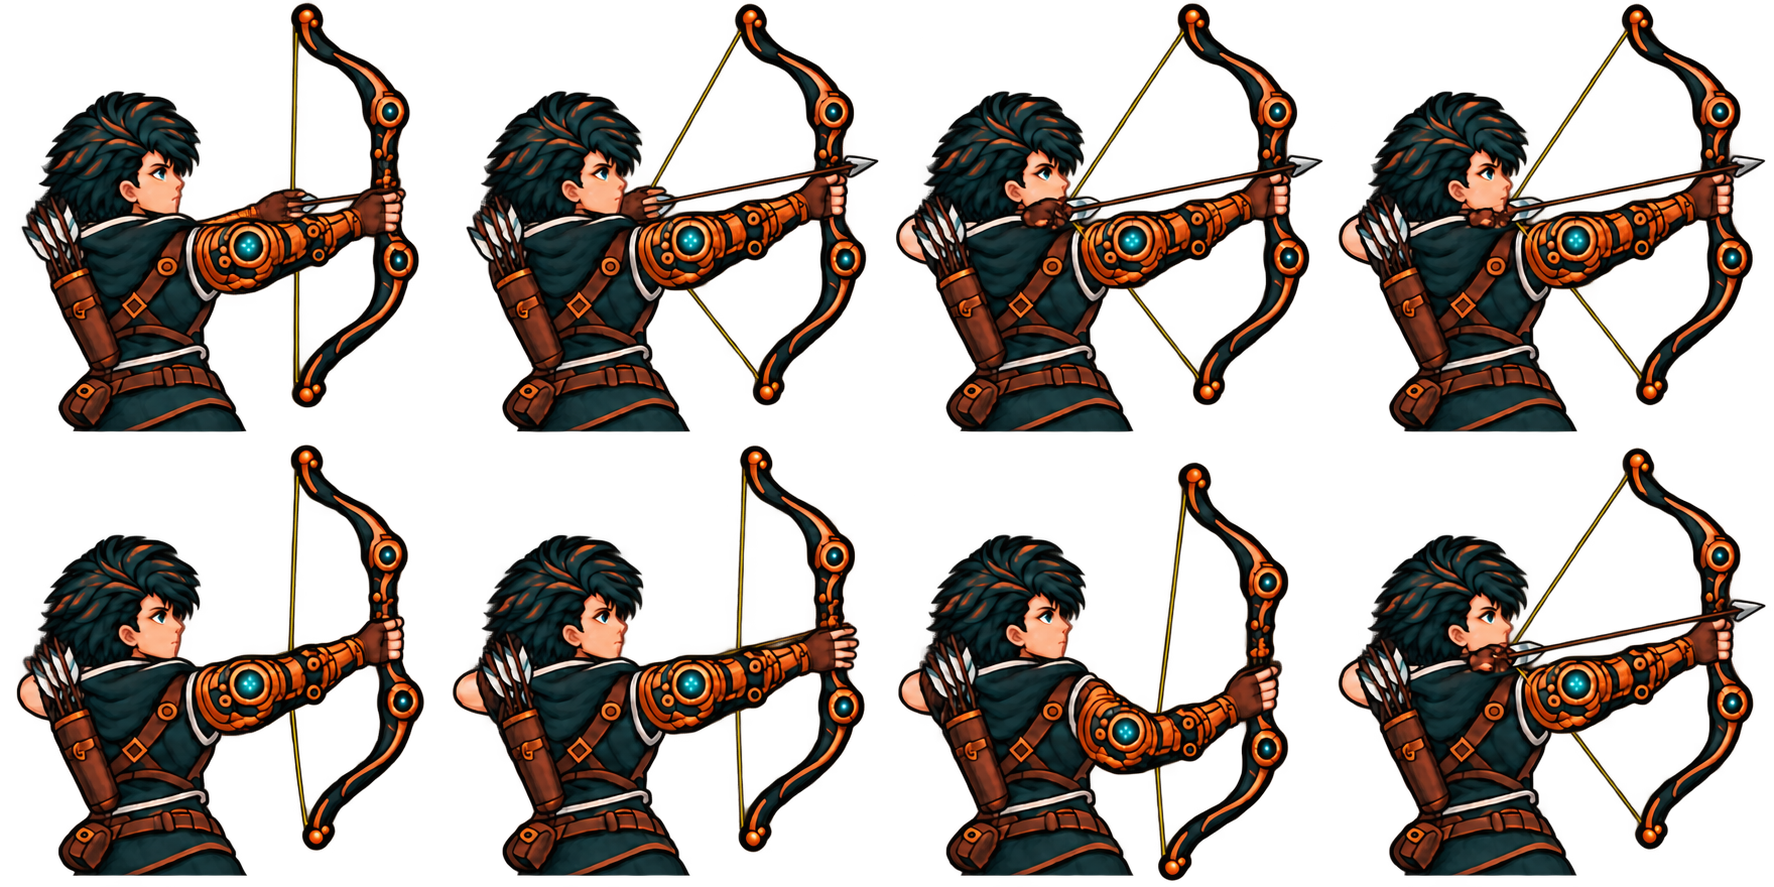
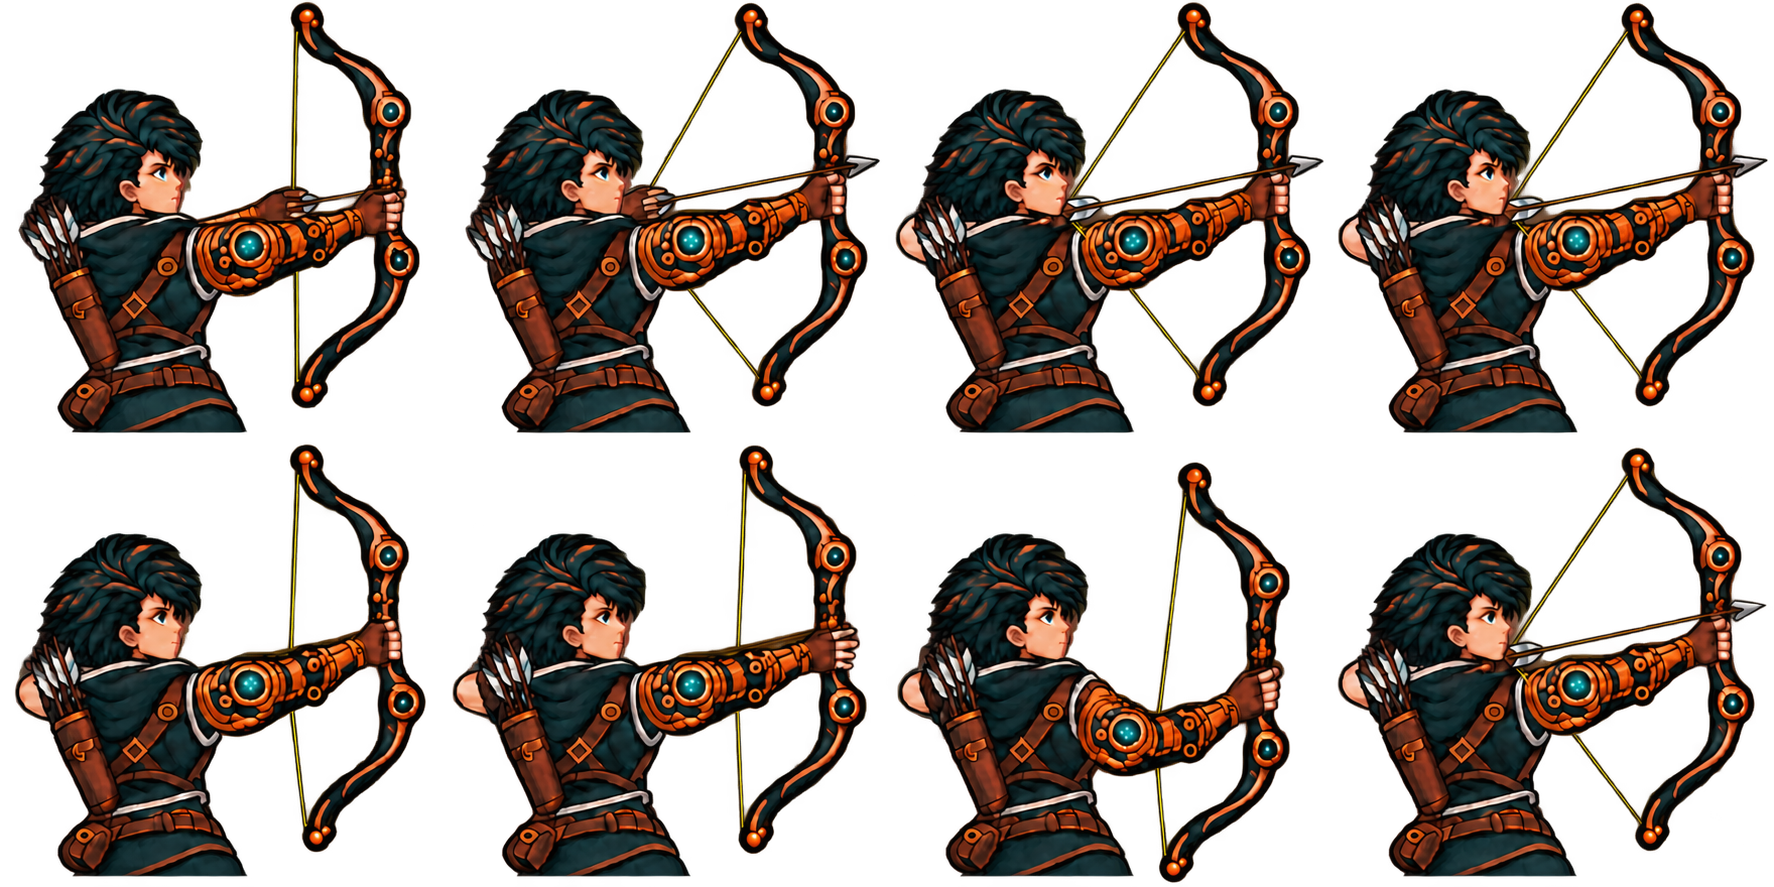
Correct Maera's drawing hand and bow grip

diff --git a/assets/art/maera/README.md b/assets/art/maera/README.md
@@ -13,17 +13,30 @@ retained in the source sheet but is not used by the current animation.
 The defining constraint is a **left-handed archer shooting toward screen
 right, mostly seen from behind**. The copper right arm holds the bow in the
 foreground. Her left drawing arm stays on the far side, naturally occluded by
-her torso/head, with the elbow visible beyond the silhouette. Keep the right
-hand's thumb anatomically correct at the grip. At every pre-release pose, the
-drawing fingers, bowstring vertex, and arrow nock must meet.
+her torso/head, with the elbow visible beyond the silhouette. The right thumb
+belongs behind the bow/riser, hidden on the far side of the grip from this rear
+camera. The visible side shows the glove back and four curled fingers. At every
+pre-release pose, the drawing fingers, bowstring vertex, and arrow nock must meet.
 
 The atlas is the first animation pass, not a finished hand-authored pixel-art
 set. Review anatomy, frame alignment, and silhouette together when refining it.
 Named animations, timing, scale, and bow socket are editable in
 `features/range/maera_archer.tscn`.
 
-## Final edit prompt
+## Latest correction
 
-The final built-in edit used the preceding rear-view correction as its input:
+The full-draw, focused-hold, and alternate-draw poses were corrected to remove
+the oversized glove from the visible neck. The far-side drawing hand is now
+occluded by the head/jaw, with only a small visible fingertip edge at the anchor.
+The exact built-in imagegen prompt is in `neck_correction_prompt.txt`.
+
+All eight right bow-hand grips were then corrected to conceal the thumb behind
+the bow/riser. Enlarged views of every grip were checked in Godot, including
+release and recovery. The exact built-in imagegen edit prompt is in
+`grip_correction_prompt.txt`.
+
+## Earlier edit prompt
+
+The preceding edit used the rear-view correction as its input:
 
 > Single targeted correction on this rear-three-quarter LEFT-HANDED archer animation atlas. Keep the established far-side LEFT drawing arm occluded behind the torso, near-side armored RIGHT bow arm, anatomical right bow hand grip with thumb toward target, camera, all eight aligned cells, transparent background. Preserve cells 3,4,5,6,7,8. ONLY FIX CELLS 1 and 2 in the top row so LEFT HAND, ARROW NOCK and GOLD STRING ALL MEET physically. At present top-left string is straight by the bow but her drawing hand/arrow nock incorrectly remain near her face. TOP-LEFT REST: left drawing hand must be moved FORWARD to touch the nearly straight gold bowstring at its middle (approximately local x300,y205 in that 444px cell), a long distance in front of her face, but still behind the foreground copper bow arm. Arrow nock starts exactly at that hand/string point, its shaft extends RIGHT toward the existing arrow point beyond bow. Shorten visible shaft at rear accordingly. The far left forearm extends from far shoulder toward this hand, mostly occluded by torso and copper arm; do not paint a near-side sleeve. TOP SECOND HALF-DRAW: hand AND arrow nock AND vertex of string V at local x255,y205 in its cell, halfway from the straight-string point toward face; string bends to that point. Fully drawn cells 3/4 already have string/hand at cheek and should stay as-is. No floating hands separated from string, no arrow butt behind a string it is supposed to be nocked onto, no switching which hand holds bow. EXACT 4x2 regular grid, transparent alpha, no text. Keep every other detail unchanged.

diff --git a/docs/shot_animation.md b/docs/shot_animation.md
@@ -31,8 +31,9 @@ The copper right arm holds the bow in the foreground. The left drawing arm is
 on the far side of her body and is occluded by the torso and head where
 appropriate. Its elbow can appear beyond the silhouette. Keep that depth order
 through the whole sequence; do not put the left sleeve across her visible back.
-The right hand must remain an anatomical right hand, with the thumb correctly
-placed at the bow grip and pointing toward the target. The drawing hand,
+The right hand must remain an anatomical right hand. Its thumb wraps on the
+far side of the grip, behind the bow/riser and hidden from this rear camera;
+do not draw a thumb across the camera-facing side of the fist. The drawing hand,
 bowstring vertex, and arrow nock meet in every pre-release pose.
 
 Grip reference: [Online Archery Academy's hand-position guide](https://www.onlinearcheryacademy.com/archery-hand-position-set/).
